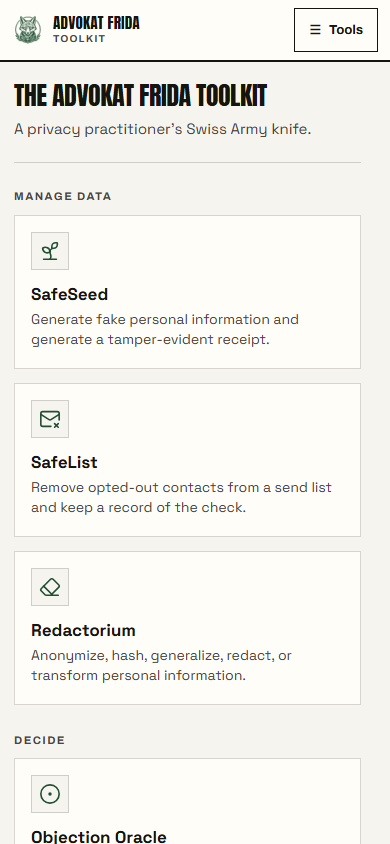
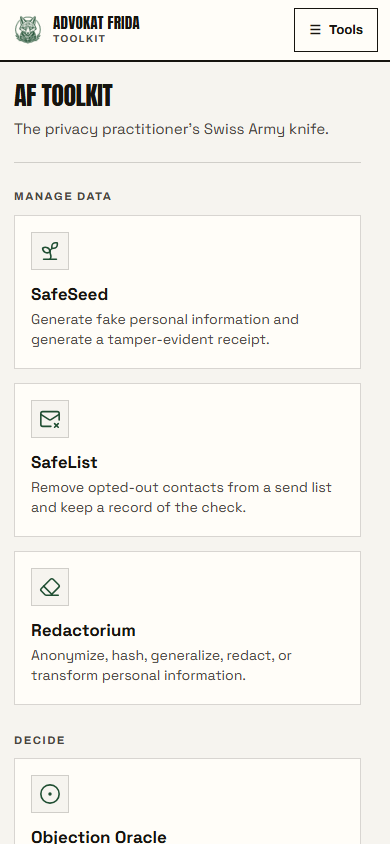
Home reads AF Toolkit; the tab reads Home · AF Toolkit (Ben, 2026-09-04)

Changed region(s): [[0.0308, 0.0924, 0.8308, 0.1848]]

diff --git a/public/index.html b/public/index.html
@@ -14,7 +14,7 @@
     />
     <link rel="stylesheet" href="/toolkit.css" />
     <script src="/toolkit.js" defer></script>
-    <title>Home · The Advokat Frida Toolkit</title>
+    <title>Home · AF Toolkit</title>
   </head>
   <body data-route="home">
     <a class="skip-link" href="#main-content">Skip to the active tool</a>
@@ -133,8 +133,8 @@
         <section class="view home-view" data-view="home" aria-labelledby="home-title">
           <div class="home-wrap">
             <header class="home-hero">
-              <h1 id="home-title" tabindex="-1">The Advokat Frida Toolkit</h1>
-              <p class="home-lede">A privacy practitioner's Swiss Army knife.</p>
+              <h1 id="home-title" tabindex="-1">AF Toolkit</h1>
+              <p class="home-lede">The privacy practitioner's Swiss Army knife.</p>
             </header>
 
             <div class="home-groups" id="tool-grid">

diff --git a/public/toolkit.js b/public/toolkit.js
@@ -55,7 +55,7 @@ function showRoute({ focus = true } = {}) {
   }
 
   document.body.dataset.route = route;
-  document.title = `${routeMeta[route].title} · The Advokat Frida Toolkit`;
+  document.title = `${routeMeta[route].title} · AF Toolkit`;
   ensureFrame(route);
   closeMenu({ restoreFocus: false });
 
